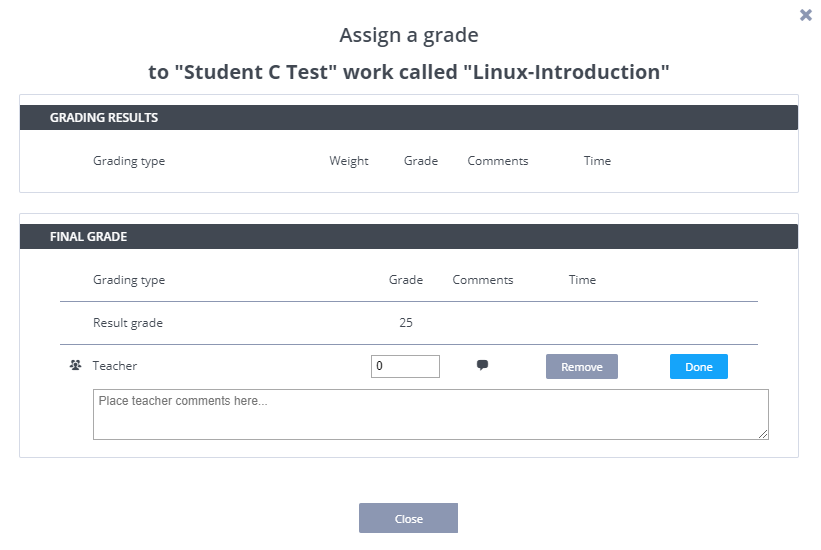
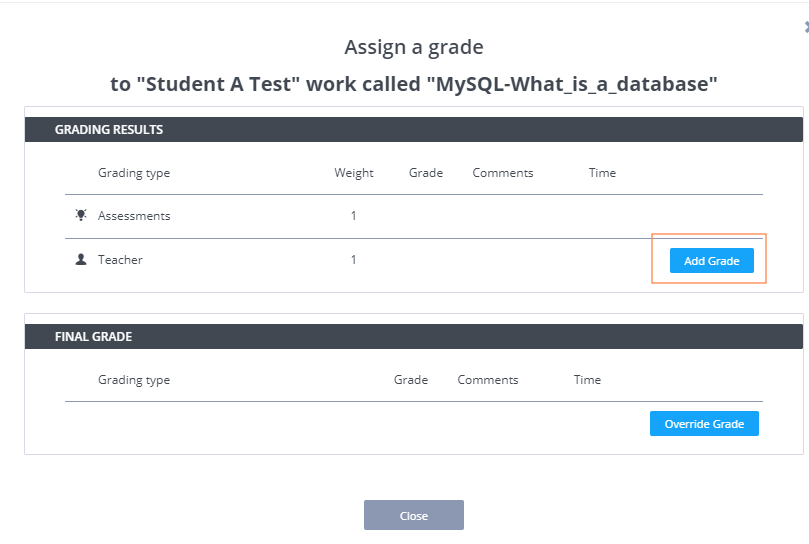
updategrading

diff --git a/docs/courses/classes.md b/docs/courses/classes.md
@@ -321,13 +321,17 @@ To use a grading template you should select the course so you see the full assig
 
 ![asignmentsettings](/img/class_administration/asignmentsettings.png)
 
-Then select **Settings** and scroll down to the **Grading template** from the list, select [Teachers Grading](/courses/classes/#teachers-grading) and choose the grading template from the list. If there are not templates set up, follow the link to the organisation area to create a new template.
+Then select **Settings** and scroll down to the **Grading Weights** from the list, select [Teachers Grading](/courses/classes/#teachers-grading), enable **Rubrics** and choose the grading template from the list. If there are not templates set up, follow the link to the organisation area to create a new template.
 
 
-![rubric template set](/img/class_administration/grading/grading-template.png)
+![Grading Weights](/img/gradingweights.png)
+
+See [Grade weights](/courses/classes/#grade-weights) for more information on grading weights
 
 ### Grading student work
-You perform the actual grading from the course. Select an assignment to grade so you see the students listed.
+You perform the actual grading from the course. [Teachers Grading](/courses/classes/#teachers-grading) needs to be enabled before teachers can grade. See [the grading process](/courses/grading/#the-grading-process) for more information.
+
+Select an assignment to grade so you see the students listed.
 
 ![grading with rubric](/img/class_administration/grading/classroom.png)
 
@@ -638,40 +642,48 @@ When applied, the adjustment will then show next to the grade field in the teach
 
 ![penalties](/img/adjusted.png)
 
-### Grading Template
-Where you can set the grading template to use for the assignment
+### Grade Weights
+Where you can enable/disable Teachers Grading, Assessments Grading, Script Grading, set the grading rubric to use for the assignment and manage the weighting for all/any grade options you have enabled.
 
-### Autograde Method
 
-#### Autograde on assignment complete
-This option provides two ways of autograding assignment scores for each student. The grading field is populated by a script authored by the project author without the need to manually populate it. The autograding script is triggered once an assignment is marked as complete.
+![Grading Weights](/img/gradingweights.png)
 
-A assignment is marked as complete in any of the following ways
+These are relative weightings against all 3 grade options. 
+
+You can set any number for these. For example, if
+the teachers grading has weight 2 and assessments grading has 1, that means the final grade will be calculated like `(teachersgrading_points * 2 + assessmentgrading_points * 1) /3`. 
+
+If you have only one option enabled 100% of the points of the enabled grading will go to the final grade.
+
+#### Teachers Grading
+
+Where you can set a [Grading Rubric Template](/courses/classes/#grading-rubric-templates) to use with an assignment and set the weighting for this.
+
+#### Assessments Grading
+
+If your assignment includes [assessments](/courses/assessments/) this will be enabled by default. If you do not wish the results of the assessments to be included in the grading you can disable this.
+
+You can also set the weighting for this. 
+
+#### Script Grading
+This allows you to specify an auto-grade script that should run when the assignment is marked as complete. The default setting ensures that any grades generated from auto-graded assessments and grades from free text assessments are automatically transferred into the grading field.
+
+You can also set the weighting for this.
+
+
+An assignment is marked as complete in any of the following ways
 
 1. Students mark the assignment as complete from their dashboard.
 1. The teacher can also mark the assignment as complete for a student from the Course dashboard with the assignment selected.
 1. The teacher can mark all assignments as complete for all students by pressing the **Actions** button. This button appears on the assignment screen.
 1. If you are using the **Assignment Duration** feature, all student assignments are marked as complete as soon as the assignment duration expiry date and time is reached.
 
-The two autograding options can be found in the assignment settings.
 
-1. Use the auto-graded assessments within the assignment to auto-populate the grading field with the aggregate % score from all assessments.
-1. Run a script to generate the grading either as soon as the student (or teacher) marks the assignment as complete in their dashboard or when the [assignment duration](/courses/classes/#unit-duration) expires.
+#### Running an auto-grade script
+To populate the grading field, you write your own custom script that evaluates the student code. This script can then transfer the grading value into the grading field.
 
-The two options can be found in the **AUTOGRADE METHOD** drop-down list.
+If you are using an LMS platform with Codio then be sure to write a percentage value into this field to maintain compatibility with LMS gradebooks. This grading field is then transferred into your LMS gradebook once you [release the grades](/courses/grading/#releasing-grades).
 
-<a name="transfer"></a>
-#### Transferring authored content assessment total
-If you have created auto-graded assessments within your authored content, Codio aggregates all scores so you can see them in the Courses dashboard. You will see that there is a total percentage calculated. This percentage value is transferred into the grading field. If you are using [LMS integration](/courses/lti1_0/) then this grading field is then transferred into your LMS gradebook once you [release the grades](/courses/grading/#releasing-grades).
-
-<a name="script"></a>
-
-#### Running a custom script
-A more advanced way of populating the grading field is to write your own custom script that evaluates the student code. This script can then transfer the grading value into the grading field.
-
-If you are using an LMS platform with Codio then be sure to write a percentage value into this field to maintain compatibility with LMS gradebooks.
-
-![authtoken](/img/grading-secure.png)
 
 <a name="securescripts"></a>
 #### Secure scripts
@@ -719,7 +731,7 @@ You can get both summary data and data for each assessment individually.
 
 <a name="regrading"></a>
 #### Regrading for an individual student
-If students set their work to 'complete' such that an autograde step is triggered then you can regrade the work by resetting the complete switch and then setting it again, which re-triggers the autograding.
+If students set their work to 'complete' such that the custom script step is triggered then you can regrade the work by resetting the complete switch and then setting it again, which re-triggers the custom script.
 
 #### Regrading all students
 From the **Actions** area of the assignment, you can regrade all students that have already been auto-graded by pressing the **Regrade All** button. This is useful if you have found a bug in your grading script. If you follow (or use) the code sample shown at the bottom of this page you can see how the original student submission date is handled.
@@ -824,30 +836,7 @@ echo $CODIO_AUTOGRADE_ENV
 curl --retry 3 -s "$CODIO_AUTOGRADE_URL&grade=$POINTS"
 ```
 
-### Grade Weights
 
-![Grading Weights](/img/gradingweights.png)
-
-These are relative weightings against all 3 grade options. 
-
-You can set any number for these. For example, if
-the teachers grading has weight 2 and assessments grading has 1, that means the final grade will be calculated like `(teachersgrading_points * 2 + assessmentgrading_points * 1) /3`. 
-
-If you have only one option enabled 100% of the points of the enabled grading will go to the final grade.
-
-#### Teachers Grading
-
-Where you can set a [Grading Rubric Template](/courses/classes/#grading-rubric-templates) to use with an assignment and set the weighting for this.
-
-#### Assessments Grading
-
-If your assignment includes [assessments](/courses/assessments/) this will be enabled by default. If you do not wish the results of the assessments to be included in the grading you can disable this.
-
-You can also set the weighting for this. 
-#### Script Grading
-This allows you to specify an auto-grade script that should run when the assignment is marked as complete. The default setting ensures that any grades generated from auto-graded assessments and grades from free text assessments are automatically transferred into the grading field.
-
-You can also set the weighting for this.
 
 ### Actions area settings
 Additional options are also available if you select the **Actions** button.

diff --git a/docs/courses/grading.md b/docs/courses/grading.md
@@ -190,11 +190,11 @@ Also see [Autograding](/courses/classes/#autograde-on-assignment-complete)
 
 To grade from the class dashboard, you should first select the assignment. You can see the check mark next to those students who have completed the assignment.
 
-To assign comments or a grade, you click on the Grade icon (see image above with grading icons circled center) and select 'Override Grade'. You can then modify the comments and grade fields for any individual student. Due to the weighting feature, we only allow numeric grades.
+To assign comments or a grade, [Teachers Grading](/courses/classes/#teachers-grading) needs to be enabled. When it is click on the Grade icon (see image above with grading icons circled center) and select 'Add Grade' button. You can then modify the comments and grade fields for any individual student. Due to the weighting feature, we only allow numeric grades. If you are using a [Rubric Template](/courses/classes/#grading-rubric-templates), this will present as you click on the grade field.
 
 ![Assign Grades](/img/grading-assign.png)
 
-If the students assignment has already been graded, any other teacher in the course can edit the grade with additional comments if required.
+If the students assignment has already been graded, any other teacher in the course can edit the grade with additional comments if required selecting the 'Override Grade' button.
 
 ### Releasing Grades
 By default students are not shown the grades until you decide to release them to the class. This allows you to hold back until you have completed the entire grading process and then release them in one go. If you want the students to see the grades as you go you can:
